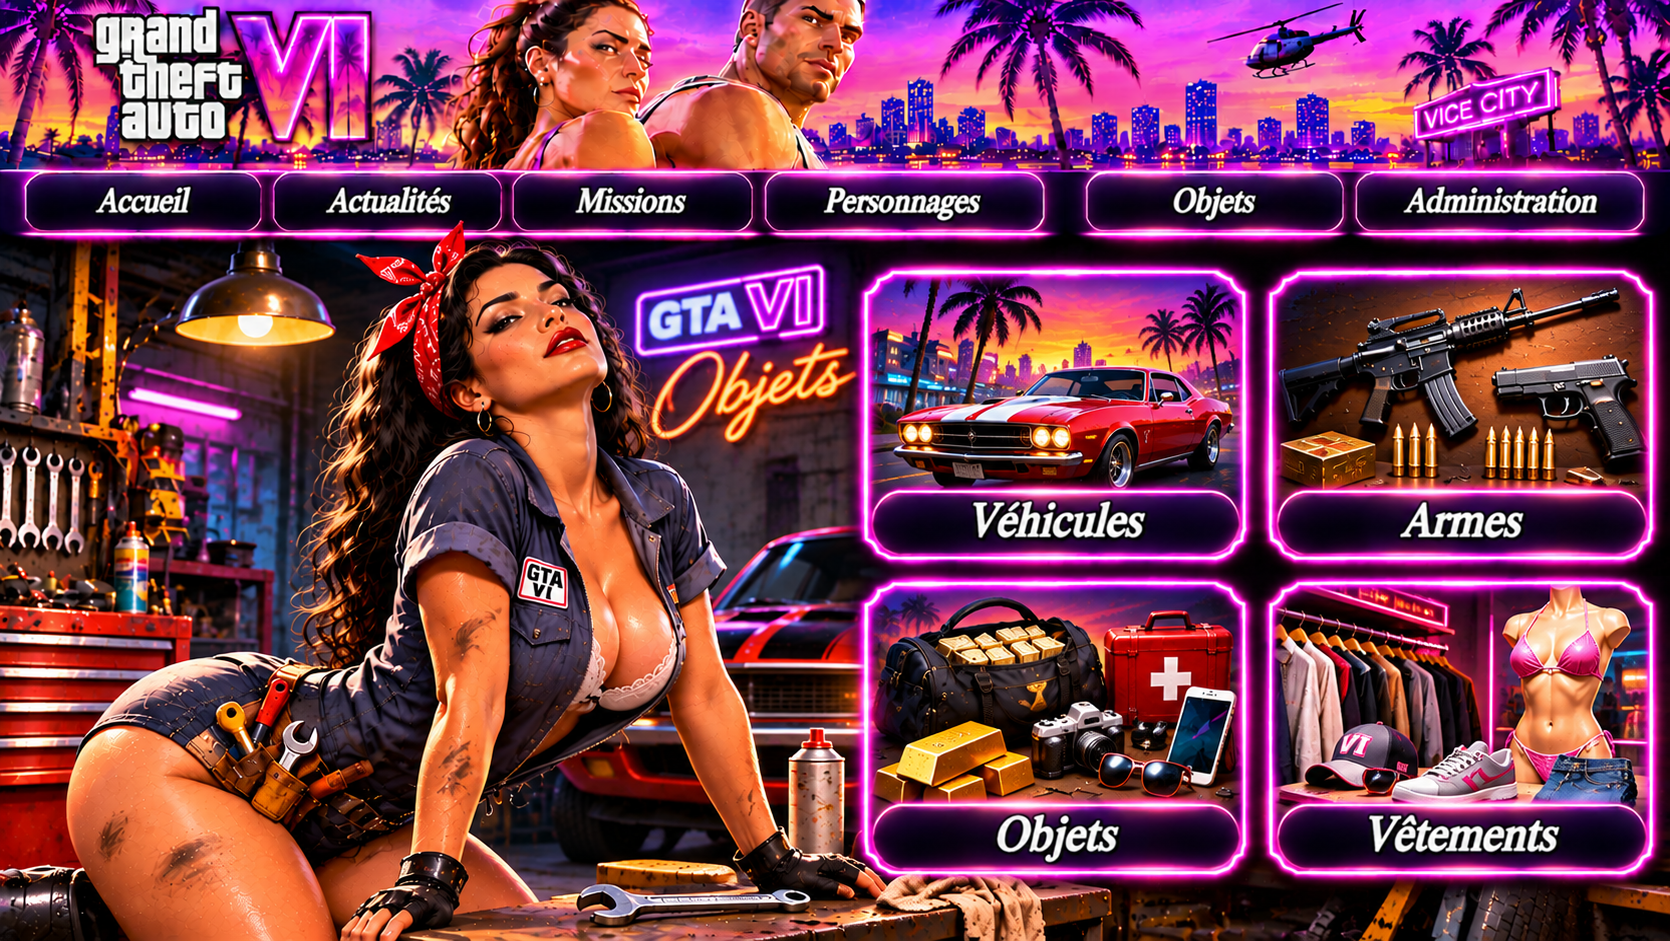
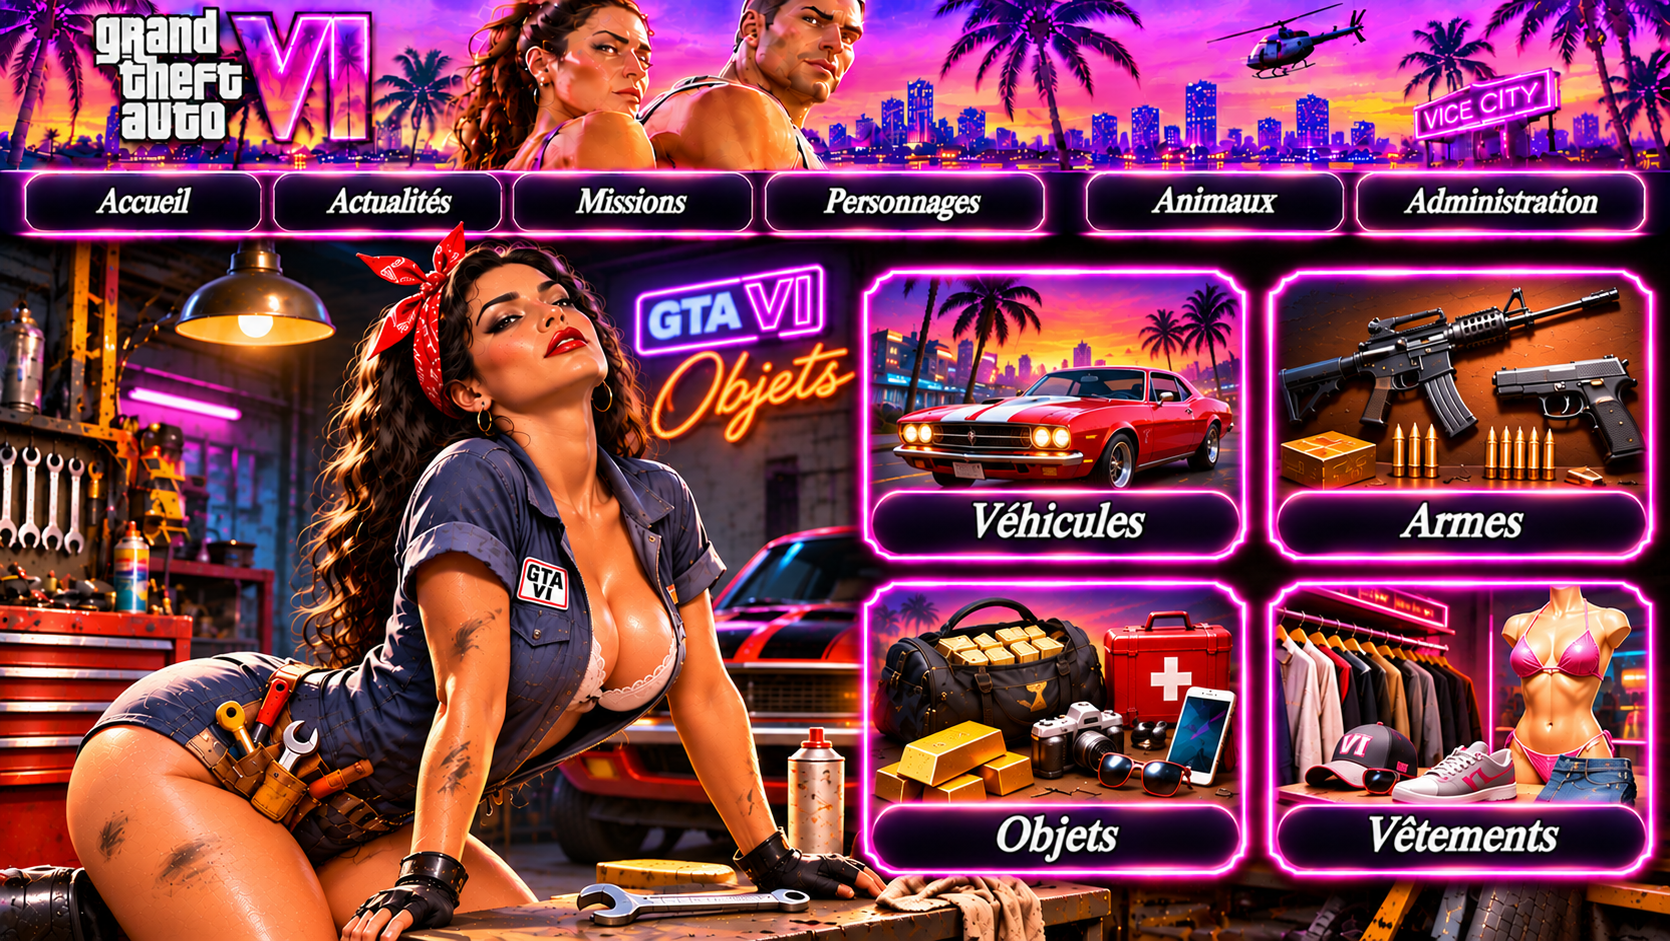
Add files via upload

diff --git a/objets.html b/objets.html
@@ -8,7 +8,7 @@
 <a class="hotspot" href="actualites.html" aria-label="Actualités" style="left:16.2%;top:18.1%;width:14.1%;height:6.5%"></a>
 <a class="hotspot" href="missions.html" aria-label="Missions" style="left:30.8%;top:18.1%;width:14.1%;height:6.5%"></a>
 <a class="hotspot" href="personnages.html" aria-label="Personnages" style="left:45.5%;top:18.1%;width:16.4%;height:6.5%"></a>
-<a class="hotspot" href="objets.html" aria-label="Objets" style="left:62.5%;top:18.1%;width:17.3%;height:6.5%"></a>
+<a class="hotspot" href="animaux.html" aria-label="Animaux" style="left:62.5%;top:18.1%;width:17.3%;height:6.5%"></a>
 <a class="hotspot" href="admin.html" aria-label="Administration" style="left:80.4%;top:18.1%;width:17.4%;height:6.5%"></a>
 <a class="hotspot" href="objets-vehicules.html" aria-label="Véhicules" style="left:51%;top:27.7%;width:22.8%;height:31.3%"></a>
 <a class="hotspot" href="objets-armes.html" aria-label="Armes" style="left:75%;top:27.7%;width:22.7%;height:31.3%"></a>
